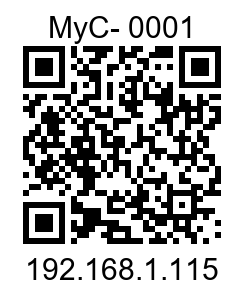
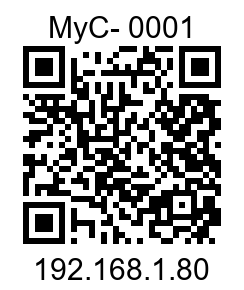
Cambio de ip estatica

Changed region(s): [[0.0861, 0.1552, 0.918, 0.9931]]

diff --git a/html/index.html b/html/index.html
@@ -53,6 +53,11 @@
                     </div>
 
                     <div class="info-item">
+                        <span class="label">Area:</span>
+                        <span id="detalle-area" style="font-weight: 600;"></span>
+                    </div>
+
+                    <div class="info-item">
                         <span class="label">Encargado:</span>
                         <span id="detalle-encargado" style="font-weight: 600;"></span>
                     </div>
@@ -143,6 +148,7 @@
                         <th>Modelo</th>
                         <th>Encargado</th>
                         <th>Departamento</th>
+                        <th>Area</th>
                         <th>Descripción Equipo</th>
                         <th>Estado</th>
 
@@ -223,11 +229,25 @@
 
                     <div class="form-group">
                         <label for="departamento">Departamento:</label>
-                        <select id="area" name="Departamento" required>
-                            <option value="">Seleccionar...</option>
+                        <select id="departamento" name="Departamento" required>
+                            <option value="">Seleccionar departamento...</option>
                             <option value="Oficina">Oficina</option>
                             <option value="Almacen">Almacen</option>
                             <option value="Perso">Perso</option>
+                        </select>
+                    </div>
+
+                    <div class="form-group">
+                        <label for="area">Area:</label>
+                        <select id="area" name="area" required>
+                            <option value="">Seleccionar Area...</option>
+                            <option value="Auditoria">Auditoria</option>
+                            <option value="Area de corte">Area de corte</option>
+                            <option value="Almacen">Almacen</option>
+                            <option value="Logistica">Logistica</option>
+                            <option value="Plata">Plata</option>
+                            <option value="Boveda Plata">Boveda Plata</option>
+                            <option value="Cqm">Cqm</option>
                         </select>
                     </div>
 
@@ -254,18 +274,6 @@
                     <div class="form-group" id="grupoMotivoUso" style="display: none;">
                         <label for="nota_uso">Motivo de Uso</label>
                         <input type="text" id="nota_uso" name="nota" placeholder="¿Quién lo usará y en qué area?">
-                        <div class="form-group">
-                            <select id="asignado_a" name="asignado_a">
-                                <option value="">Seleccionar Area...</option>
-                                <option value="Auditoria">Auditoria</option>
-                                <option value="Area de corte">Area de corte</option>
-                                <option value="Almacen">Almacen</option>
-                                <option value="Logistica">Logistica</option>
-                                <option value="Plata">Plata</option>
-                                <option value="Boveda Plata">Boveda Plata</option>
-                                <option value="Cqm">Cqm</option>
-                            </select>
-                        </div>
 
                     </div>
 

diff --git a/scripts/script.js b/scripts/script.js
@@ -26,7 +26,7 @@ if (togglePassword && password) {
 function toggleMotivoUso(estado) {
   const grupoMotivo = document.getElementById("grupoMotivoUso");
   const inputNota = document.getElementById("nota_uso");
-  const selectAsignado = document.getElementById("asignado_a");
+  const selectAsignado = document.getElementById("area");
   const inputDescripcion = document.getElementById("descripcion_equipo");
   const grupoDescripcion = inputDescripcion ? inputDescripcion.parentElement : null;
 
@@ -149,6 +149,9 @@ function mostrarDetalleEquipo(equipoId) {
 
   const detDepto = document.getElementById("detalle-departamento");
   if (detDepto) detDepto.textContent = (equipo.departamento || "No asignado").toUpperCase();
+
+  const detArea = document.getElementById("detalle-area");
+  if (detArea) detArea.textContent = (equipo.area || "No asignado").toUpperCase();
 
   const detEnc = document.getElementById("detalle-encargado");
   if (detEnc) detEnc.textContent = (equipo.encargado || "No asignado").toUpperCase();
@@ -364,6 +367,7 @@ function cargarTabla() {
             <td>${item.modelo}</td>
             <td>${item.encargado || "N/A"}</td>
             <td>${item.departamento || "N/A"}</td>
+            <td>${item.area || "N/A"}</td>
             <td>${item.descripcion_equipo || "Sin descripción"}</td>
             <td ${estadoStyle}>${estadoTexto}</td>
         `;
@@ -387,10 +391,10 @@ function exportarDatos() {
     return;
   }
 
-  let csv = "ID,Nombre,Tipo,Marca,Modelo,Encargado,Departamento,Descripción Equipo,Estado\n";
+  let csv = "ID,Nombre,Tipo,Marca,Modelo,Encargado,Departamento,Area,Descripción Equipo,Estado\n";
 
   inventario.forEach((item) => {
-    csv += `${item.id},"${item.nombre}","${item.tipo}","${item.marca}","${item.modelo}","${item.encargado || "N/A"}","${item.departamento || "N/A"}","${item.descripcion_equipo || "Sin descripción"}","${item.estado || "N/A"}"\n`;
+    csv += `${item.id},"${item.nombre}","${item.tipo}","${item.marca}","${item.modelo}","${item.encargado || "N/A"}","${item.departamento || "N/A"}","${item.area || "N/A"}","${item.descripcion_equipo || "Sin descripción"}","${item.estado || "N/A"}"\n`;
   });
 
   const blob = new Blob([csv], { type: "text/csv" });

diff --git a/css/InventarioPCs.css b/css/InventarioPCs.css
@@ -232,11 +232,14 @@ button:hover {
   font-family: "Bricolage Grotesque";
   box-shadow: 0 20px 60px rgba(0, 0, 0, 0.3);
   overflow-x: auto;
+  -webkit-overflow-scrolling: touch;
 }
 
 table {
   width: 100%;
   border-collapse: collapse;
+  table-layout: fixed;
+  min-width: 900px;
 }
 
 thead {
@@ -244,30 +247,81 @@ thead {
   color: white;
 }
 
+/* Anchos de columna proporcionales */
+th:nth-child(1) {
+  width: 5%;
+}
+
+/* ID */
+th:nth-child(2) {
+  width: 12%;
+}
+
+/* Nombre */
+th:nth-child(3) {
+  width: 10%;
+}
+
+/* Tipo */
+th:nth-child(4) {
+  width: 9%;
+}
+
+/* Marca */
+th:nth-child(5) {
+  width: 10%;
+}
+
+/* Modelo */
+th:nth-child(6) {
+  width: 10%;
+}
+
+/* Encargado */
+th:nth-child(7) {
+  width: 12%;
+}
+
+/* Departamento */
+th:nth-child(8) {
+  width: 8%;
+}
+
+/* Area */
+th:nth-child(9) {
+  width: 15%;
+}
+
+/* Descripción Equipo */
+th:nth-child(10) {
+  width: 9%;
+}
+
+/* Estado */
+
 th {
-  justify-items: center;
-  align-items: center;
-  padding: 15px;
-  text-align: left;
-  font-weight: 600;
-  font-size: 0.95em;
+  padding: 14px 10px;
   text-align: center;
+  font-weight: 600;
+  font-size: 0.9em;
+  white-space: nowrap;
 }
 
 th:first-child {
   border-top-left-radius: 10px;
-  text-align: center;
 }
 
 th:last-child {
   border-top-right-radius: 10px;
-  text-align: center;
 }
 
 td {
-  padding: 15px;
-  border-bottom: 1px solid #000000;
+  padding: 12px 10px;
+  border-bottom: 1px solid #e5e7eb;
   text-align: center;
+  font-size: 0.9em;
+  word-wrap: break-word;
+  overflow-wrap: break-word;
 }
 
 #inventarioTable {
@@ -279,7 +333,18 @@ tbody tr {
 }
 
 tbody tr:hover {
-  background-color: #f8f9ff;
+  background-color: #f0f4ff;
+}
+
+/* Responsive: en pantallas pequeñas permite scroll horizontal */
+@media (max-width: 1024px) {
+  .table-container {
+    padding: 15px;
+  }
+
+  table {
+    min-width: 800px;
+  }
 }
 
 /* Vista de Detalle Individual */

diff --git a/php/agregar_equipo.php b/php/agregar_equipo.php
@@ -10,25 +10,26 @@ $tipo = $_POST['tipo'] ?? '';
 $marca = $_POST['marca'] ?? '';
 $modelo = $_POST['modelo'] ?? '';
 $Departamento = $_POST['Departamento'] ?? '';
+$area = $_POST['area'] ?? '';
 $descripcion_equipo = $_POST['descripcion_equipo'] ?? '';
 $encargado = $_POST['encargado'] ?? '';
 $estado = $_POST['estado'] ?? 'disponible';
 $nota = $_POST['nota'] ?? null;
 
 
-if (empty($nombre) || empty($tipo) || empty($marca) || empty($modelo) || empty($descripcion_equipo) || empty($encargado) || empty($Departamento)) {
-    echo json_encode(['success' => false, 'error' => 'Todos los campos son obligatorios, incluyendo descripción, encargado, departamento']);
+if (empty($nombre) || empty($tipo) || empty($marca) || empty($modelo) || empty($descripcion_equipo) || empty($encargado) || empty($Departamento) || empty($area)) {
+    echo json_encode(['success' => false, 'error' => 'Todos los campos son obligatorios, incluyendo descripción, encargado, departamento y area']);
     exit;
 }
 
-$sql = "INSERT INTO equipos_pc (nombre, tipo, marca, modelo, encargado, departamento, descripcion_equipo, estado, nota_estado) VALUES (  ?, ?, ?, ?, ?, ?, ?,?,?)";
+$sql = "INSERT INTO equipos_pc (nombre, tipo, marca, modelo, encargado, departamento, area, descripcion_equipo, estado, nota_estado) VALUES (?, ?, ?, ?, ?, ?, ?, ?, ?, ?)";
 $stmt = $conexion->prepare($sql);
-$stmt->bind_param("sssssssss", $nombre, $tipo, $marca, $modelo, $encargado,$Departamento, $descripcion_equipo, $estado, $nota); 
+$stmt->bind_param("ssssssssss", $nombre, $tipo, $marca, $modelo, $encargado, $Departamento, $area, $descripcion_equipo, $estado, $nota); 
 
 if ($stmt->execute()) {  
     $nuevo_id = $stmt->insert_id;
     
-    $ip = "192.168.1.115"; 
+    $ip = "192.168.1.80"; 
     $url = "http://$ip/Inventario_MyCard/html/index.html?id=$nuevo_id";
 
     #Actualizar la URL 

diff --git a/php/cambiar_estado.php b/php/cambiar_estado.php
@@ -10,7 +10,7 @@ $equipo_id = $_POST['id'] ?? '';
 $nota = $_POST['nota'] ?? null;
 $descripcion_equipo = $_POST['descripcion_equipo'] ?? null;
 $encargado = $_POST['encargado'] ?? null;
-$departamento = $_POST['departamento'] ?? null;
+$departamento= $_POST['departamento'] ?? null;
 
 if (empty($equipo_id)) {
     echo json_encode(['success' => false, 'error' => 'ID de equipo requerido']);
@@ -37,12 +37,12 @@ $nuevo_estado = ($estado_actual === 'disponible') ? 'ocupada' : 'disponible';
 // Si el nuevo estado es disponible, borramos la nota, el encargado y el departamento
 if ($nuevo_estado === 'disponible') {
     $nota = null;
-    $sql_update = "UPDATE equipos_pc SET estado = ?, nota_estado = ?, encargado = '', departamento = '' WHERE id = ?";
+    $sql_update = "UPDATE equipos_pc SET estado = ?, nota_estado = ?, encargado = '', departamento_y_area = '' WHERE id = ?";
     $stmt_update = $conexion->prepare($sql_update);
     $stmt_update->bind_param("ssi", $nuevo_estado, $nota, $equipo_id);
 } else {
     // Si pasa a ocupada, actualizamos el estado, la nota, descripcion, encargado y departamento
-    $sql_update = "UPDATE equipos_pc SET estado = ?, nota_estado = ?, descripcion_equipo = ?, encargado = ?, departamento = ? WHERE id = ?";
+    $sql_update = "UPDATE equipos_pc SET estado = ?, nota_estado = ?, descripcion_equipo = ?, encargado = ?, departamento_y_area = ? WHERE id = ?";
     $stmt_update = $conexion->prepare($sql_update);
     $stmt_update->bind_param("sssssi", $nuevo_estado, $nota, $descripcion_equipo, $encargado, $departamento, $equipo_id);
 }

diff --git a/php/api_inventario.php b/php/api_inventario.php
@@ -8,7 +8,7 @@ require_once 'db.php';
 
 try {
     #hace la consulta a la base de datos
-    $sql = "SELECT id, nombre, tipo, marca, modelo, encargado, departamento, descripcion_equipo, estado, nota_estado FROM equipos_pc ORDER BY id ASC";
+    $sql = "SELECT id, nombre, tipo, marca, modelo, encargado, departamento, area, descripcion_equipo, estado, nota_estado FROM equipos_pc ORDER BY id ASC";
     $resultado = $conexion->query($sql);
 
     if (!$resultado) { 
